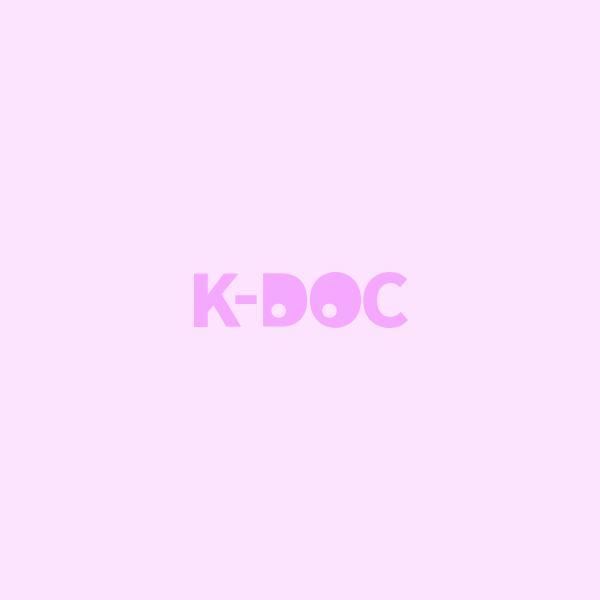
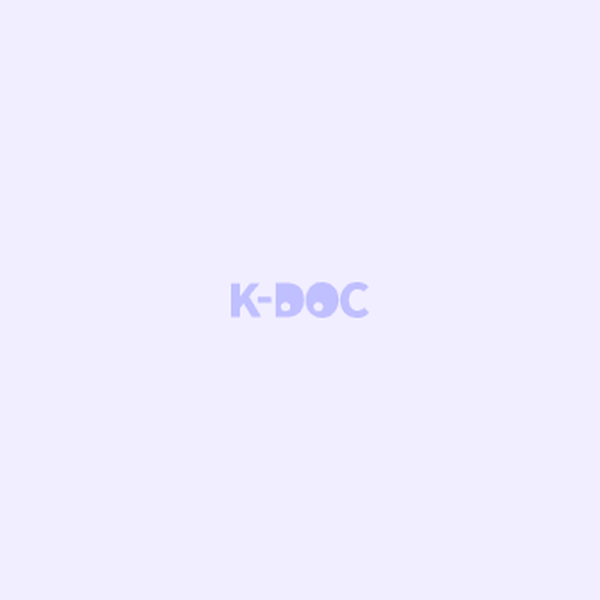
fix(ui): Update default image paths for consistency across components
- Changed the default image URL from 'default_image.png' to 'default_image_square.png' in multiple components including AfterImageSection, BeforeAfterImages, BeforeImageSection, DualImageDisplay, PopularReviewCardV2BeforeAfter, and SingleImageDisplay to ensure uniformity in image assets.

Changed region(s): [[0.3, 0.45, 0.69, 0.57]]

diff --git a/entities/review/ui/DualImageDisplay.tsx b/entities/review/ui/DualImageDisplay.tsx
@@ -39,7 +39,7 @@ export function DualImageDisplay({
       {/* 첫 번째 이미지 (태그 포함) */}
       <div className='relative flex-1 cursor-pointer overflow-hidden' onClick={onFirstImageClick}>
         <Image
-          src={firstImageError ? '/images/shared/default_image.png' : firstImage.imageUrl}
+          src={firstImageError ? '/images/shared/default_image_square.png' : firstImage.imageUrl}
           alt={firstImage.alt || `${type === 'before' ? 'Before' : 'After'} 이미지 1`}
           fill
           className='object-cover'
@@ -55,7 +55,7 @@ export function DualImageDisplay({
         onClick={onSecondImageClick}
       >
         <Image
-          src={secondImageError ? '/images/shared/default_image.png' : secondImage.imageUrl}
+          src={secondImageError ? '/images/shared/default_image_square.png' : secondImage.imageUrl}
           alt={secondImage.alt || `${type === 'before' ? 'Before' : 'After'} 이미지 2`}
           fill
           className='object-cover'

diff --git a/entities/review/ui/AfterImageSection.tsx b/entities/review/ui/AfterImageSection.tsx
@@ -25,7 +25,7 @@ export function AfterImageSection({
 }: AfterImageSectionProps) {
   // 기본 이미지 설정 [[memory:8795787]]
   const defaultImage: DefaultImage = {
-    imageUrl: '/images/shared/default_image.png',
+    imageUrl: '/images/shared/default_image_square.png',
     alt: '기본 이미지',
   };
 

diff --git a/entities/review/ui/BeforeAfterImages.tsx b/entities/review/ui/BeforeAfterImages.tsx
@@ -21,7 +21,7 @@ export function BeforeAfterImages({
 
   // 기본 이미지 설정
   const defaultImage = {
-    imageUrl: '/images/shared/default_image.png',
+    imageUrl: '/images/shared/default_image_square.png',
     alt: '기본 이미지',
   };
 

diff --git a/entities/review/ui/BeforeImageSection.tsx b/entities/review/ui/BeforeImageSection.tsx
@@ -21,7 +21,7 @@ export function BeforeImageSection({
 }: BeforeImageSectionProps) {
   // 기본 이미지 설정 [[memory:8795787]]
   const defaultImage: DefaultImage = {
-    imageUrl: '/images/shared/default_image.png',
+    imageUrl: '/images/shared/default_image_square.png',
     alt: '기본 이미지',
   };
 

diff --git a/entities/review/ui/PopularReviewCardV2BeforeAfter.tsx b/entities/review/ui/PopularReviewCardV2BeforeAfter.tsx
@@ -13,7 +13,7 @@ export function PopularReviewCardV2BeforeAfter({
   afterImage,
 }: PopularReviewCardV2BeforeAfterProps) {
   const defaultImage = {
-    imageUrl: '/images/shared/default_image.png',
+    imageUrl: '/images/shared/default_image_square.png',
     alt: '기본 이미지',
   };
 

diff --git a/entities/review/ui/SingleImageDisplay.tsx b/entities/review/ui/SingleImageDisplay.tsx
@@ -30,7 +30,7 @@ export function SingleImageDisplay({
       onClick={onImageClick}
     >
       <Image
-        src={imageError ? '/images/shared/default_image.png' : image.imageUrl}
+        src={imageError ? '/images/shared/default_image_square.png' : image.imageUrl}
         alt={image.alt || `${type === 'before' ? 'Before' : 'After'} 이미지`}
         fill
         className='object-cover'